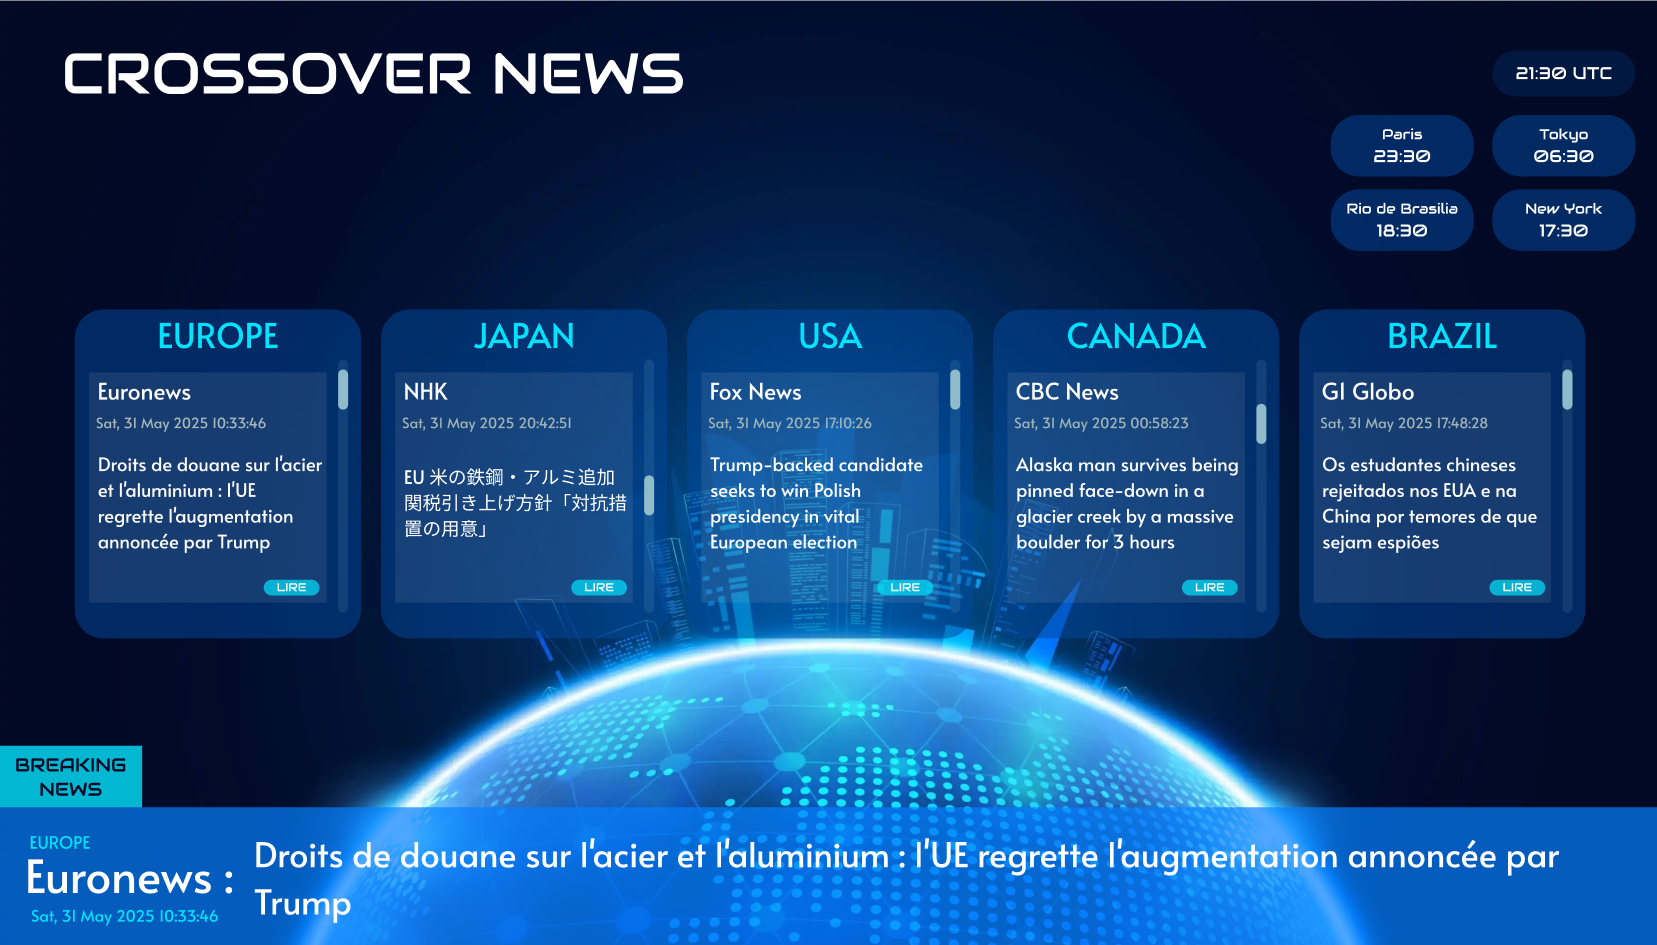
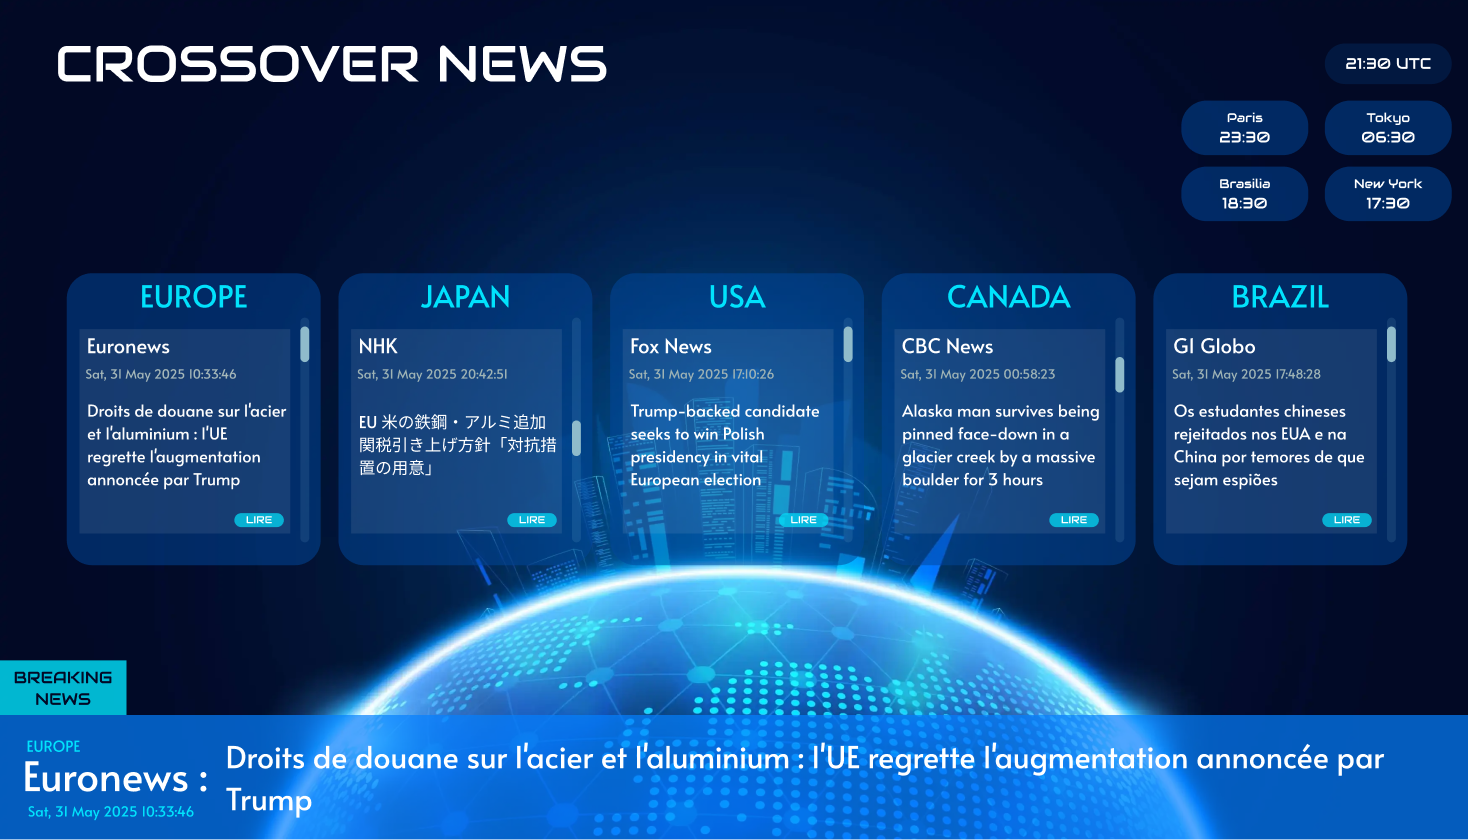
CN-11 : UI linked to /api/articles

diff --git a/app/src/components/Welcome.jsx b/app/src/components/Welcome.jsx
@@ -1,18 +1,66 @@
-import React from 'react';
+import React, { useEffect, useState, useContext } from 'react';
+import { observer } from 'mobx-react';
 import Row from 'react-bootstrap/Row';
 import Col from 'react-bootstrap/Col';
 import Alert from 'react-bootstrap/Alert';
+import Button from 'react-bootstrap/Button';
+import Card from 'react-bootstrap/Card';
+import RootStore from '../RootStore';
 
 function Welcome() {
+  const { articlestore } = useContext(RootStore);
+  const [articles, setArticles] = useState([]);
+
+  useEffect(() => {
+    const load = async () => {
+      await articlestore.loadEntries();
+      setArticles(articlestore.entries || []);
+    };
+    load();
+  }, [articlestore]);
+
   return (
-    <Row>
-      <Col>
-        <Alert variant="info">
-          <Alert.Heading>Bienvenue !</Alert.Heading>
-        </Alert>
-      </Col>
-    </Row>
+    <>
+      <Row>
+        <Col>
+          <Alert variant="info">
+            <Alert.Heading>Bienvenue sur Crossover News</Alert.Heading>
+          </Alert>
+        </Col>
+      </Row>
+
+      <Row>
+        {articles.map((entry, index) => {
+          const data = entry.data;
+          const article = data.content?.[0];
+          if (!article) return null;
+
+          return (
+            <Col key={index} md={6} lg={4} className="mb-4">
+              <Card bg="dark" text="white" style={{ height: '100%' }}>
+                <Card.Header>{data.zone}</Card.Header>
+                <Card.Body>
+                  <Card.Title>{data.source}</Card.Title>
+                  <Card.Subtitle className="mb-2 text-muted">
+                    {new Date(article.date).toLocaleString()}
+                  </Card.Subtitle>
+                  <Card.Text>{article.title}</Card.Text>
+                  <Button
+                    variant="info"
+                    href={article.link}
+                    target="_blank"
+                    rel="noopener noreferrer"
+                  >
+                    Lire
+                  </Button>
+                </Card.Body>
+              </Card>
+            </Col>
+          );
+        })}
+      </Row>
+    </>
   );
 }
 
-export default Welcome;
+export default observer(Welcome);

diff --git a/app/src/model/ArticleList.js b/app/src/model/ArticleList.js
@@ -1,0 +1,45 @@
+import { makeObservable, observable, computed, action, runInAction } from 'mobx';
+import { RestResource } from './restResources/RestResource';
+
+export class ArticleList {
+    _entries = null;
+    _isLoading = false;
+    _itemUrl;
+
+    constructor(itemUrl) {
+        makeObservable(this, {
+            _entries: observable,
+            _isLoading: observable,
+            entries: computed,
+            loadEntries: action,
+        });
+        this._itemUrl = itemUrl;
+    }
+
+    get entries() {
+        return this._entries;
+    }
+
+    async loadEntries() {
+        if (!this._isLoading) {
+            runInAction(() => {
+                this._isLoading = true;
+            });
+            try {
+                const entries = await RestResource.find({
+                    url: this._itemUrl,
+                    parameters: {},
+                    idField: null
+                });
+                runInAction(() => {
+                    this._entries = entries;
+                });
+            } finally {
+                runInAction(() => {
+                    this._isLoading = false;
+                });
+            }
+        }
+        return this._entries;
+    }
+}

diff --git a/app/src/components/Home/Card/NewCard.jsx b/app/src/components/Home/Card/NewCard.jsx
@@ -1,0 +1,19 @@
+import React from 'react';
+import Card from 'react-bootstrap/Card';
+import Button from 'react-bootstrap/Button';
+
+const NewsCard = ({ region, source, date, title }) => {
+    return (
+        <Card className="mb-3" bg="dark" text="white" style={{ minHeight: '200px' }}>
+            <Card.Header as="h5">{region}</Card.Header>
+            <Card.Body>
+                <Card.Title>{source}</Card.Title>
+                <Card.Subtitle className="mb-2 text-muted">{new Date(date).toLocaleString()}</Card.Subtitle>
+                <Card.Text>{title}</Card.Text>
+                <Button variant="info">Lire</Button>
+            </Card.Body>
+        </Card>
+    );
+};
+
+export default NewsCard;

diff --git a/app/src/store.js b/app/src/store.js
@@ -1,11 +1,13 @@
 import { ToDoListManager } from './model/ToDoListManager';
 import { ErrorManager } from './model/ErrorManager';
 import { NetworkManager } from './model/NetworkManager';
+import { ArticleList } from './model/ArticleList';
 
 const STORE = {
   mainstore: new ToDoListManager(),
   errorstore: new ErrorManager(),
   netstore: new NetworkManager(),
+  articlestore: new ArticleList(`${APP_ENV.API_EP_URI}/articles`)
 };
 
 export default STORE;

diff --git a/README.md b/README.md
@@ -167,7 +167,7 @@ Outil = Figma<br/>
     <img src="./sources/images/crossovernews-laptop-design.png" title="design-laptop" alt="design-laptop" width="600" height="342"/>&nbsp;
 </div>&nbsp;
 
-Maquette version mobile<br/>
+>Maquette version mobile
 <div id="header" align="center" style="display: flex; flex-direction: column; justify-content: center; align-items:center;">
     <img src="./sources/images/crossovernews-mobile-design.png" title="design-mobile" alt="design-mobile" width="387" height="600"/>&nbsp;
 </div>
